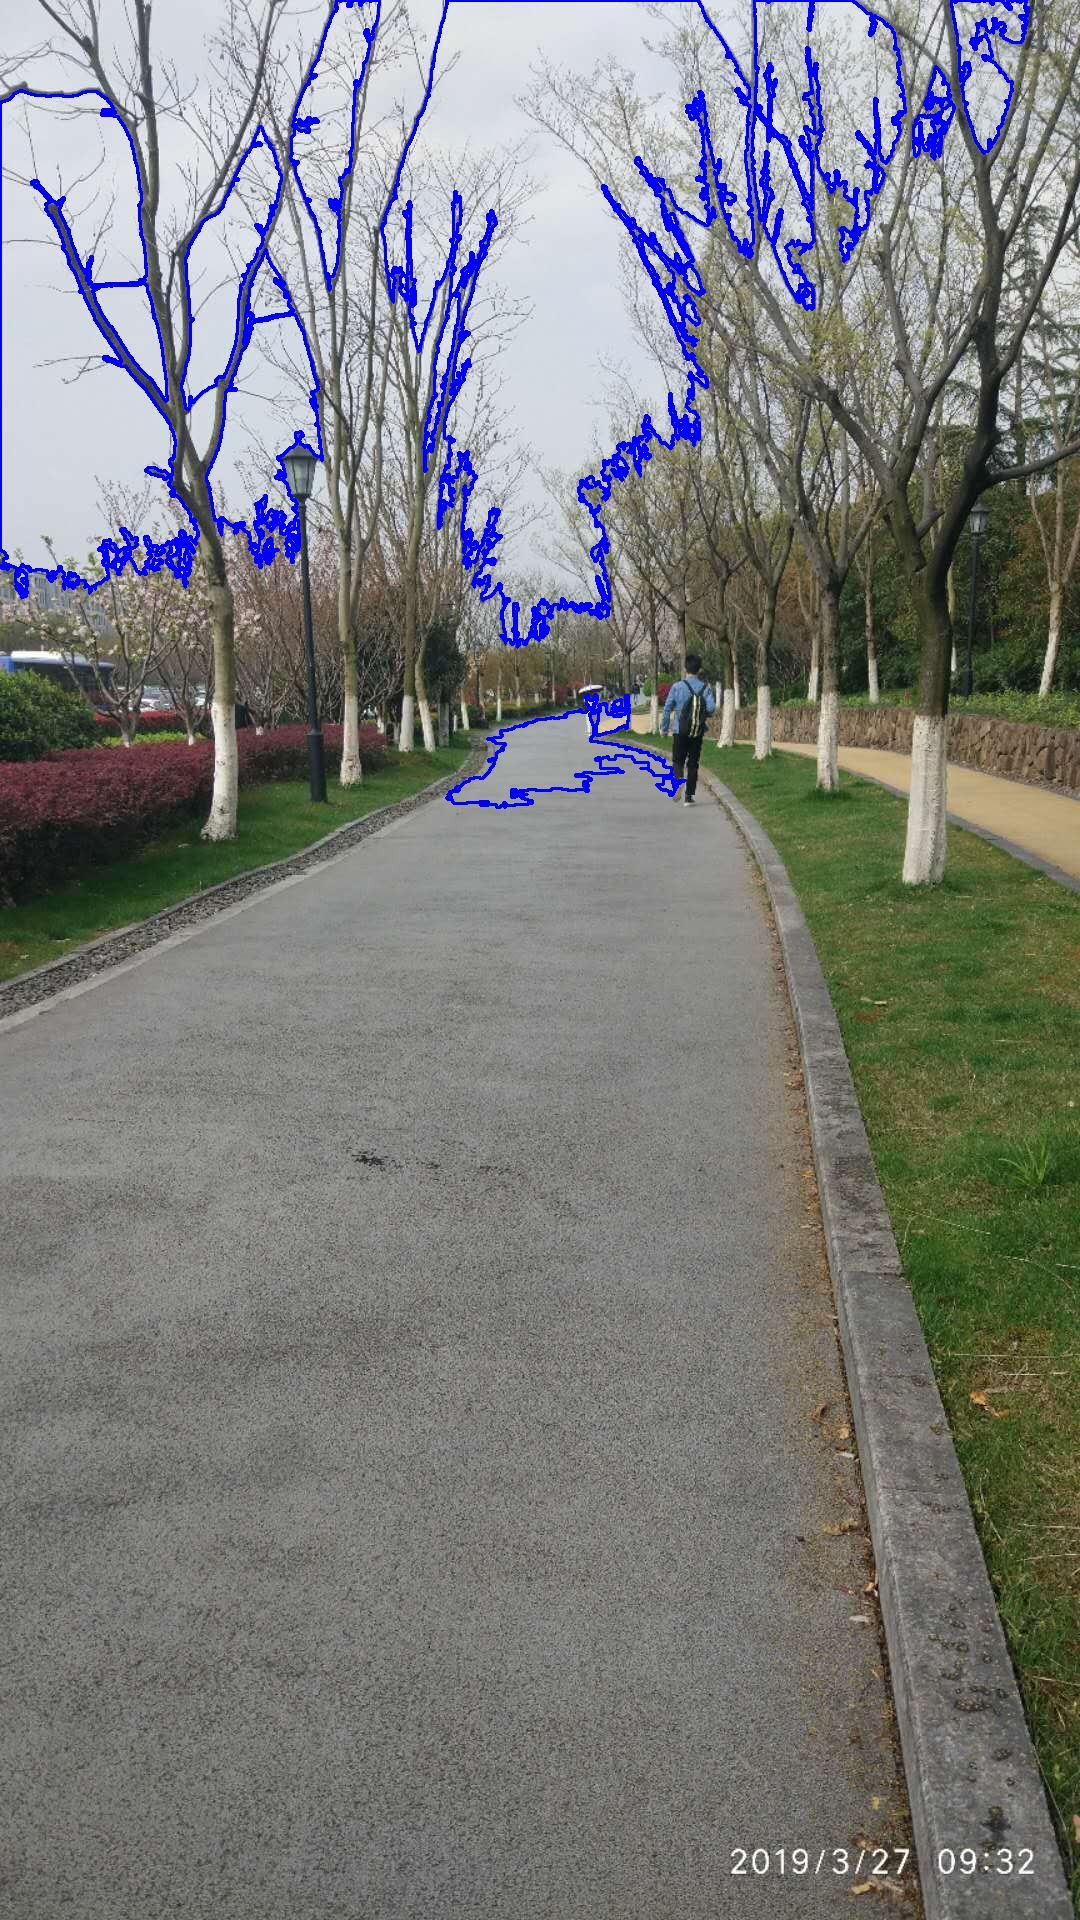
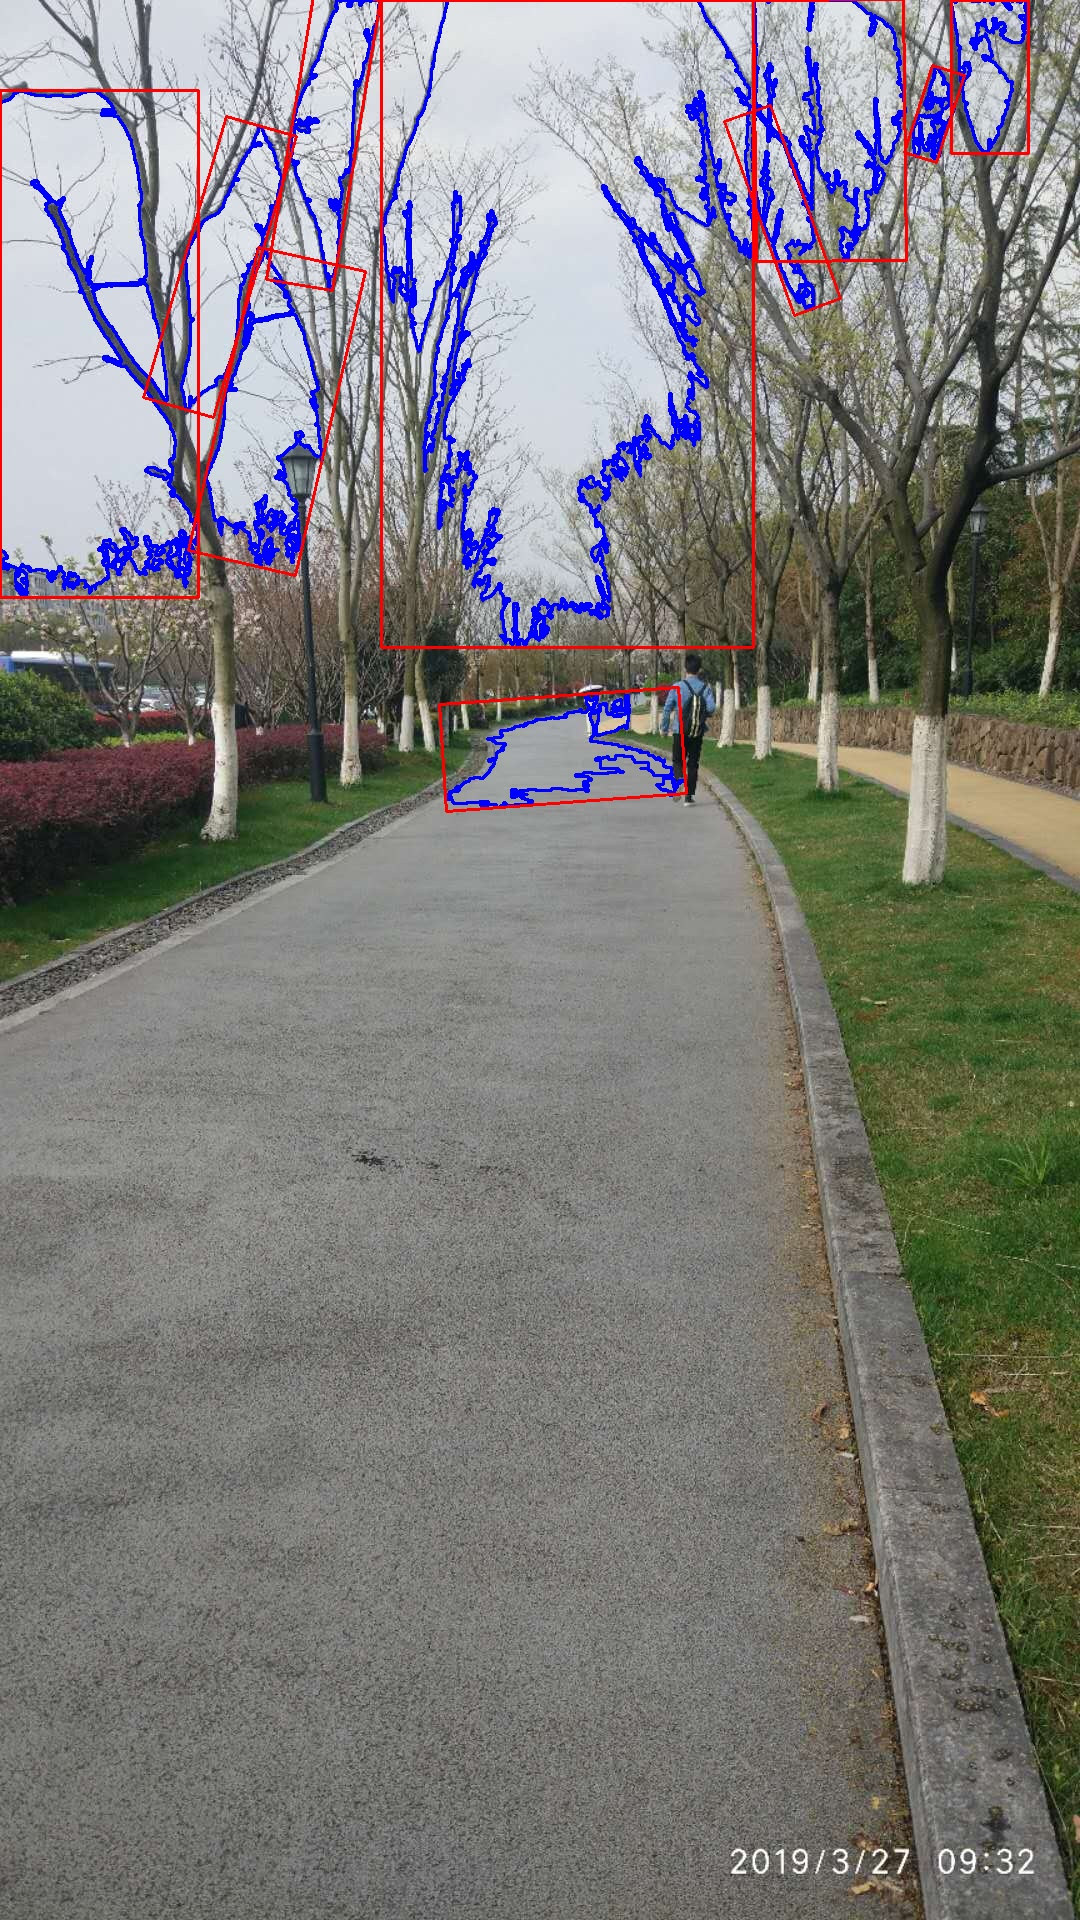
use contours info

diff --git a/contour.py b/contour.py
@@ -3,11 +3,18 @@ import numpy as np
 import os
 
 
+def get_sorted_contours(contours):
+    sorted_contours = sorted(contours, key=lambda x: -x.shape[0])
+
+    return sorted_contours
+
+
 def get_contours(image):
     gray = cv.cvtColor(image, cv.COLOR_BGR2GRAY)
-    _, binary_image = cv.threshold(gray, 0, 255, cv.THRESH_BINARY | cv.THRESH_OTSU)
-    # cv.imshow('binary_image', binary_image)
-    # cv.waitKey(0)
+    _, binary_image = cv.threshold(gray, 0, 255, cv.THRESH_BINARY + cv.THRESH_OTSU)
+    # binary_image = cv.adaptiveThreshold(gray, 255, cv.ADAPTIVE_THRESH_MEAN_C, cv.THRESH_BINARY, 11, 2)
+    cv.imshow('binary_image', binary_image)
+    cv.waitKey(0)
 
     contours, hierarchy = cv.findContours(binary_image, cv.RETR_TREE, cv.CHAIN_APPROX_SIMPLE)
 
@@ -20,6 +27,15 @@ def get_contours(image):
     new_contours = sorted_contours[:10]
     cv.drawContours(image, new_contours, -1, (255, 0, 0), 2)
 
+    # x, y, w, h = cv.boundingRect(new_contours[0])
+    # image = cv.rectangle(image, (x, y), (x + w, y + h), (0, 255, 0), 2)
+
+    for i in range(10):
+        rect = cv.minAreaRect(new_contours[i])
+        box = cv.boxPoints(rect)
+        box = np.int0(box)
+        image = cv.drawContours(image, [box], 0, (0, 0, 255), 2)
+
     cv.imshow('walk_corner_contours', image)
     cv.waitKey(0)
     cv.destroyAllWindows()
@@ -27,14 +43,8 @@ def get_contours(image):
     return image
 
 
-def get_sorted_contours(contours):
-    sorted_contours = sorted(contours, key=lambda x: -x.shape[0])
-
-    return sorted_contours
-
-
 picture_types = ['walk', 'road', 'niu', 'home', 'table', 'window', 'office']
-type = picture_types[0]
+type = picture_types[4]
 
 picture_file = type + '_corner.jpg'
 picture_directory = 'D:\data\picture'
@@ -43,6 +53,6 @@ src_image = cv.imread(os.path.join(picture_directory, picture_file))
 
 image_contours = get_contours(src_image)
 
-output_dirctory = os.path.join('picture', type + '_contours.jpg')
+output_directory = os.path.join('picture', type + '_contours.jpg')
 
-cv.imwrite(output_dirctory, image_contours)
+cv.imwrite(output_directory, image_contours)
